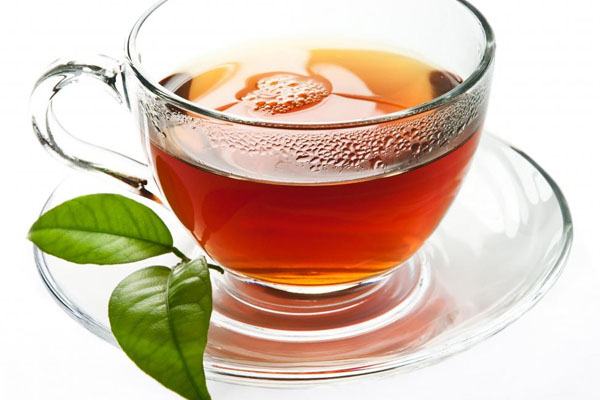
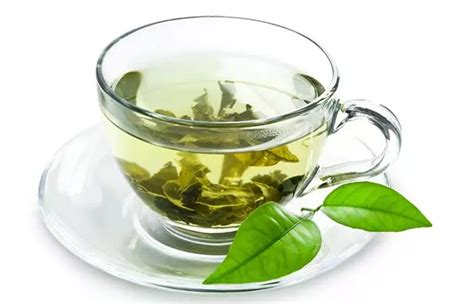
Replacing the default text with familiar one and adjusting some components of the layout

diff --git a/index.html b/index.html
@@ -4,8 +4,11 @@
 <meta charset="utf-8">
 <meta name="viewport" content="width=device-width, initial-scale=1.0">
 <meta name="description" content="">
-<meta name="author" content="webthemez">
-<title>Coffee Shop Free HTML Website Template | webthemez</title>
+<meta name="author" content="khaled">
+<title>Welcome to our Coffee Shop</title>
+
+<!-- HTML Links --->
+<link href="assets/img/favicon.png" rel="icon" />
 
 <!-- Bootstrap core CSS -->
 <link href="assets/css/bootstrap.css" rel="stylesheet">
@@ -77,19 +80,19 @@
       <h2 class="centered">WHAT WE OFFER</h2>
       <hr>
       <div class="col-lg-8 col-lg-offset-2">
-        <p class="large">Lorem ipsum dolor sit amet, consectetur adipisicing elit. Aut eaque, laboriosam veritatis, quos non quis ad perspiciatis, totam corporis ea, alias ut unde.</p>
+        <p class="large">Here are our Finest products.</p>
       </div>
-      <div class="col-lg-4 callout"> <i class="fa fa-cubes fa-3x"></i>
+      <div class="col-lg-4 callout"> <img height="82" width = "82" src="assets/img/coffee.png">
         <h3>COFFEE</h3>
-        <p>Erat imperdiet dissentias ea usu, alia aliquid corrumpit ea qui. Eu vim oratio conclusionemque, vel at errem nominavi delicatissimi.</p>
+        <p>Coffee build your base.</p>
       </div>
-      <div class="col-lg-4 callout"> <i class="fa fa-flask fa-3x"></i>
+      <div class="col-lg-4 callout"> <img height="80" width = "80" src="assets/img/tea.png">
         <h3>TEA</h3>
-        <p>Erat imperdiet dissentias ea usu, alia aliquid corrumpit ea qui. Eu vim oratio conclusionemque, vel at errem nominavi delicatissimi.</p>
+        <p>We have the best Homemade Tea.</p>
       </div>
-      <div class="col-lg-4 callout"> <i class="fa fa-life-ring fa-3x"></i>
+      <div class="col-lg-4 callout"> <img height="80" width = "80" src="assets/img/cake.png">
         <h3>CAKES</h3>
-        <p>Erat imperdiet dissentias ea usu, alia aliquid corrumpit ea qui. Eu vim oratio conclusionemque, vel at errem nominavi delicatissimi.</p>
+        <p>Come taste our delicious cakes and you won't regret it.</p>
       </div>
     </div>
     <!-- row --> 
@@ -100,8 +103,8 @@
         <div class="container">
             <div class="highlight tb">
                 <div class="tb-cell">
-                    <p>Erat imperdiet dissentias ea usu, alia aliquid corrumpit ea qui!</br>
-					erant bonorum albucius et per, ei sapientem accommodare est. Saepe dolorum constituam ei!!</p>
+                    <p>Oh, You like our products and want to reserve a table!</br>
+					Click the button on your right to make a reserevation.</p>
                 </div>
                 <div class="links tb-cell">
                     <div class="reservation-link">
@@ -119,12 +122,12 @@
     <div class="row white">
       <h2 class="centered">Our Shop</h2>
       <hr>
-      <div class="col-md-6"> <img class="img-responsive" src="assets/img/about/about1.jpg" align=""> </div>
+      <div class="col-md-6"> <img class="img-responsive" src="assets/img/about/about1.jpg"> </div>
       <div class="col-md-6">
         <h3>Who we are</h3>
-        <p>Lorem ipsum dolor sit amet, quo meis audire placerat eu, te eos porro veniam. An everti maiorum detracto mea. Eu eos dicam voluptaria, erant bonorum albucius et per, ei sapientem accommodare est. Saepe dolorum constituam ei vel. Te sit malorum ceteros repudiandae, ne tritani adipisci vis.</p>
+        <p>We are a bunch of people who love coffee just like you do.</p>
         <h3>Why choose us?</h3>
-        <p>Lorem ipsum dolor sit amet, quo meis audire placerat eu, te eos porro veniam. An everti maiorum detracto mea. Eu eos dicam voluptaria, erant bonorum albucius et per, ei sapientem accommodare est. Saepe dolorum constituam ei vel.</p>
+        <p>We have the best products in the market. So, if you value quality you have to give us a visit!</p>
       </div>
     </div>
     <!-- row --> 
@@ -138,37 +141,25 @@
       <h2 class="centered">What Special</h2>
       <hr>
       <div class="col-lg-8 col-lg-offset-2 centered">
-        <p class="large">Lorem ipsum dolor sit amet, consectetur adipisicing elit. Aut eaque, laboriosam veritatis, quos non quis ad perspiciatis, totam corporis ea, alias ut unde.</p>
+        <p class="large">Here are our special items for our special customers!</p>
       </div>
     </div>
     <!-- /row -->
     <div class="container">
       <div class="row"> 
-        
-        <!-- PORTFOLIO IMAGE 1 -->
-        <div class="col-md-4 ">
-          <div class="grid overlay">
-            <figure> <img class="img-responsive" src="assets/img/portfolio/folio01.jpg" alt="">
-              <figcaption>
-                <h5>Coco Cake</h5>
-                <a data-toggle="modal" href="#myModal" class="btn btn-default">More Details</a> </figcaption>
-              <!-- /figcaption --> 
-            </figure>
-            <!-- /figure --> 
-          </div>
-          <!-- /grid-overlay --> 
-        </div> 
-        
-        <div class="modal fade" id="myModal" tabindex="-1" role="dialog" aria-labelledby="myModalLabel" aria-hidden="true">
+
+       <!-- The Modal used in all portfolio images -->
+        <!--Modal1-->
+        <div class="modal fade" id="myModal1" tabindex="-1" role="dialog" aria-labelledby="myModalLabel" aria-hidden="true">
           <div class="modal-dialog">
             <div class="modal-content">
               <div class="modal-header">
                 <button type="button" class="close" data-dismiss="modal" aria-hidden="true">&times;</button>
-                <h4 class="modal-title">Rose Cake</h4>
+                <h4 class="modal-title">Chocolate Cake</h4>
               </div>
               <div class="modal-body">
-                <p><img class="img-responsive" src="assets/img/portfolio/folio01-preview.jpg" alt=""></p>
-                <p>Lorem ipsum dolor sit amet, quo meis audire placerat eu, te eos porro veniam. An everti maiorum detracto mea. </p> 
+                <p><img class="img-responsive" src="assets/img/portfolio/folio01.jpg" alt=""></p>
+                <p>A cake flavored with chocolate and vanilla. We are sure it will be your favorite! </p> 
               </div> 
             </div>
             <!-- /.modal-content --> 
@@ -176,14 +167,120 @@
           <!-- /.modal-dialog --> 
         </div>
         <!-- /.modal --> 
+
+        <!--Modal2-->
+                 <div class="modal fade" id="myModal2" tabindex="-1" role="dialog" aria-labelledby="myModalLabel" aria-hidden="true">
+          <div class="modal-dialog">
+            <div class="modal-content">
+              <div class="modal-header">
+                <button type="button" class="close" data-dismiss="modal" aria-hidden="true">&times;</button>
+                <h4 class="modal-title">Rose Cake</h4>
+              </div>
+              <div class="modal-body">
+                <p><img class="img-responsive" src="assets/img/portfolio/folio02.jpg" alt=""></p>
+                <p>Going on a date?, Take this and you will thank us later!</p> 
+              </div> 
+            </div>
+            <!-- /.modal-content --> 
+          </div>
+          <!-- /.modal-dialog --> 
+        </div>
+        <!-- /.modal --> 
+        <!--Modal3-->
+                 <div class="modal fade" id="myModal3" tabindex="-1" role="dialog" aria-labelledby="myModalLabel" aria-hidden="true">
+          <div class="modal-dialog">
+            <div class="modal-content">
+              <div class="modal-header">
+                <button type="button" class="close" data-dismiss="modal" aria-hidden="true">&times;</button>
+                <h4 class="modal-title">Cookies</h4>
+              </div>
+              <div class="modal-body">
+                <p><img class="img-responsive" src="assets/img/portfolio/folio03.jpg" alt=""></p>
+                <p>Who doesn't love some delicious cookies with warm milk!</p> 
+              </div> 
+            </div>
+            <!-- /.modal-content --> 
+          </div>
+          <!-- /.modal-dialog --> 
+        </div>
+        <!-- /.modal --> 
+        <!--Modal4-->
+                 <div class="modal fade" id="myModal4" tabindex="-1" role="dialog" aria-labelledby="myModalLabel" aria-hidden="true">
+          <div class="modal-dialog">
+            <div class="modal-content">
+              <div class="modal-header">
+                <button type="button" class="close" data-dismiss="modal" aria-hidden="true">&times;</button>
+                <h4 class="modal-title">Green Tea</h4>
+              </div>
+              <div class="modal-body">
+                <p><img class="img-responsive" src="assets/img/portfolio/folio04.jpg" alt=""></p>
+                <p>Ready for the best green tea you will ever have!</p> 
+              </div> 
+            </div>
+            <!-- /.modal-content --> 
+          </div>
+          <!-- /.modal-dialog --> 
+        </div>
+        <!-- /.modal --> 
+        <!--Modal5-->
+                 <div class="modal fade" id="myModal5" tabindex="-1" role="dialog" aria-labelledby="myModalLabel" aria-hidden="true">
+          <div class="modal-dialog">
+            <div class="modal-content">
+              <div class="modal-header">
+                <button type="button" class="close" data-dismiss="modal" aria-hidden="true">&times;</button>
+                <h4 class="modal-title">Nescafé</h4>
+              </div>
+              <div class="modal-body">
+                <p><img class="img-responsive" src="assets/img/portfolio/folio05.jpg" alt=""></p>
+                <p>Make Your Day Tastier with one cup of Nescafé! </p> 
+              </div> 
+            </div>
+            <!-- /.modal-content --> 
+          </div>
+          <!-- /.modal-dialog --> 
+        </div>
+        <!-- /.modal --> 
+        <!--Modal6-->
+                 <div class="modal fade" id="myModal6" tabindex="-1" role="dialog" aria-labelledby="myModalLabel" aria-hidden="true">
+          <div class="modal-dialog">
+            <div class="modal-content">
+              <div class="modal-header">
+                <button type="button" class="close" data-dismiss="modal" aria-hidden="true">&times;</button>
+                <h4 class="modal-title">Cappuccino</h4>
+              </div>
+              <div class="modal-body">
+                <p><img class="img-responsive" src="assets/img/portfolio/folio06.jpg" alt=""></p>
+                <p>A light, foamy cappuccino is a beloved drink for many coffee enthusiasts! </p> 
+              </div> 
+            </div>
+            <!-- /.modal-content --> 
+          </div>
+          <!-- /.modal-dialog --> 
+        </div>
+        <!-- /.modal --> 
+
+        <!-- PORTFOLIO IMAGE 1 -->
+        <div class="col-md-4 ">
+          <div class="grid overlay">
+            <figure> <img class="img-responsive" src="assets/img/portfolio/folio01.jpg" alt="">
+              <figcaption>
+                <h5>Chocolate Cake</h5>
+                <a data-toggle="modal" href="#myModal1" class="btn btn-default">More Details</a> </figcaption>
+              <!-- /figcaption --> 
+            </figure>
+            <!-- /figure --> 
+          </div>
+          <!-- /grid-overlay --> 
+        </div> 
+
         
         <!-- PORTFOLIO IMAGE 2 -->
         <div class="col-md-4">
           <div class="grid overlay">
             <figure> <img class="img-responsive" src="assets/img/portfolio/folio02.jpg" alt="">
               <figcaption>
-                <h5>Green Tea</h5>
-                <a data-toggle="modal" href="#myModal" class="btn btn-default">More Details</a> </figcaption>
+                <h5>Rose Cake</h5>
+                <a data-toggle="modal" href="#myModal2" class="btn btn-default">More Details</a> </figcaption>
               <!-- /figcaption --> 
             </figure>
             <!-- /figure --> 
@@ -196,8 +293,8 @@
           <div class="grid overlay">
             <figure> <img class="img-responsive" src="assets/img/portfolio/folio03.jpg" alt="">
               <figcaption>
-                <h5>Cappuccino</h5>
-                <a data-toggle="modal" href="#myModal" class="btn btn-default">More Details</a> </figcaption>
+                <h5>Cookies</h5>
+                <a data-toggle="modal" href="#myModal3" class="btn btn-default">More Details</a> </figcaption>
               <!-- /figcaption --> 
             </figure>
             <!-- /figure --> 
@@ -214,7 +311,7 @@
             <figure> <img class="img-responsive" src="assets/img/portfolio/folio04.jpg" alt="">
               <figcaption>
                 <h5>Green Tea</h5>
-                <a data-toggle="modal" href="#myModal" class="btn btn-default">More Details</a> </figcaption>
+                <a data-toggle="modal" href="#myModal4" class="btn btn-default">More Details</a> </figcaption>
               <!-- /figcaption --> 
             </figure>
             <!-- /figure --> 
@@ -227,8 +324,8 @@
           <div class="grid overlay">
             <figure> <img class="img-responsive" src="assets/img/portfolio/folio05.jpg" alt="">
               <figcaption>
-                <h5>Cookies</h5>
-                <a data-toggle="modal" href="#myModal" class="btn btn-default">More Details</a> </figcaption>
+                <h5>Nescafé</h5>
+                <a data-toggle="modal" href="#myModal5" class="btn btn-default">More Details</a> </figcaption>
               <!-- /figcaption --> 
             </figure>
             <!-- /figure --> 
@@ -241,8 +338,8 @@
           <div class="grid overlay">
             <figure> <img class="img-responsive" src="assets/img/portfolio/folio06.jpg" alt="">
               <figcaption>
-                <h5>Cake</h5>
-                <a data-toggle="modal" href="#myModal" class="btn btn-default">More Details</a> </figcaption>
+                <h5>Cappuccino</h5>
+                <a data-toggle="modal" href="#myModal6" class="btn btn-default">More Details</a> </figcaption>
               <!-- /figcaption --> 
             </figure>
             <!-- /figure --> 
@@ -265,24 +362,24 @@
       <h2 class="centered">Meet Our Chef</h2>
       <hr>
 	   <div class="col-lg-8 col-lg-offset-2 centered">
-        <p>Lorem ipsum dolor sit amet, consectetur adipisicing elit. Aut eaque, laboriosam veritatis, quos non quis ad perspiciatis, totam corporis ea, alias ut unde.</p>
+        <p>Here are our awesome Chefs that adore making premium products for you!</p>
 		<br/>
       </div>
       <div class="col-lg-3 centered"> <img class="img img-circle" src="assets/img/team/team01.jpg" height="120px" width="120px" alt="">
         <h4><strong>Rennyl</strong></h4>
-        <p>Consectetuer eu nam. Saepe legendos vulputate eu quo, id mea comprehensam signifer.</p>
+        <p>Our beloved leader.</p>
         <a href="#"><i class="fa fa-twitter"></i></a> <a href="#"><i class="fa fa-facebook"></i></a> <a href="#"><i class="fa fa-linkedin"></i></a> </div>
       <div class="col-lg-3 centered"> <img class="img img-circle" src="assets/img/team/team02.jpg" height="120px" width="120px" alt="">
         <h4><b>Kristean</b></h4>
-        <p>Consectetuer eu nam. Saepe legendos vulputate eu quo, id mea comprehensam signifer.</p>
+        <p>The Green Tea Specialist.</p>
         <a href="#"><i class="fa fa-twitter"></i></a> <a href="#"><i class="fa fa-facebook"></i></a> <a href="#"><i class="fa fa-linkedin"></i></a> </div>
       <div class="col-lg-3 centered"> <img class="img img-circle" src="assets/img/team/team03.jpg" height="120px" width="120px" alt="">
         <h4><b>Angilica</b></h4>
-        <p>Consectetuer eu nam. Saepe legendos vulputate eu quo, id mea comprehensam signifer.</p>
+        <p>She loves making awesome Cappuccino cups.</p>
         <a href="#"><i class="fa fa-twitter"></i></a> <a href="#"><i class="fa fa-facebook"></i></a> <a href="#"><i class="fa fa-linkedin"></i></a> </div>
       <div class="col-lg-3 centered"> <img class="img img-circle" src="assets/img/team/team04.jpg" height="120px" width="120px" alt="">
         <h4><b>Shannon</b></h4>
-        <p>Consectetuer eu nam. Saepe legendos vulputate eu quo, id mea comprehensam signifer.</p>
+        <p>The best Chocolate Cake chef in the world.</p>
         <a href="#"><i class="fa fa-twitter"></i></a> <a href="#"><i class="fa fa-facebook"></i></a> <a href="#"><i class="fa fa-linkedin"></i></a> </div>
      
     </div>
@@ -302,8 +399,7 @@
     <div class="row">
       <div class="col-md-7">
 	  <strong>Please give us your feedback!</strong>
-        <p>Lorem ipsum dolor sit amet, consectetur adipisicing elit. Aut eaque, laboriosam veritatis, quos non quis ad perspiciatis, totam corporis ea, alias ut unde.</p>
-        <form id="contact" method="post" class="form" role="form">
+        <form id="contact" method="post" class="form" role="form" action="">
           <div class="row">
             <div class="col-md-12 form-group">
               <input class="form-control" id="name" name="name" placeholder="Name" type="text" required />
@@ -330,7 +426,7 @@
       
       <br/> 
 	  <i class="fa fa-envelope-o fa-2x"></i>
-        <p>info@companyname.com</p>
+        <p>info@coffee-shop.com</p>
        
        <br/> 
 	  <i class="fa fa-phone fa-2x"></i>
@@ -347,7 +443,7 @@
 <div id="footerwrap">
   <div class="container">
     <div class="row">
-      <div class="col-md-8"> <span class="copyright">Copyright &copy; 2015. Design by <a href="http://www.webthemez.com">Webthemez</a></span> </div>
+      <div class="col-md-8"> <span class="copyright">Copyright 2026 Design by Section 3</span> </div>
       <div class="col-md-4">
         <ul class="list-inline social-buttons">
           <li><a href="#"><i class="fa fa-twitter"></i></a> </li>
